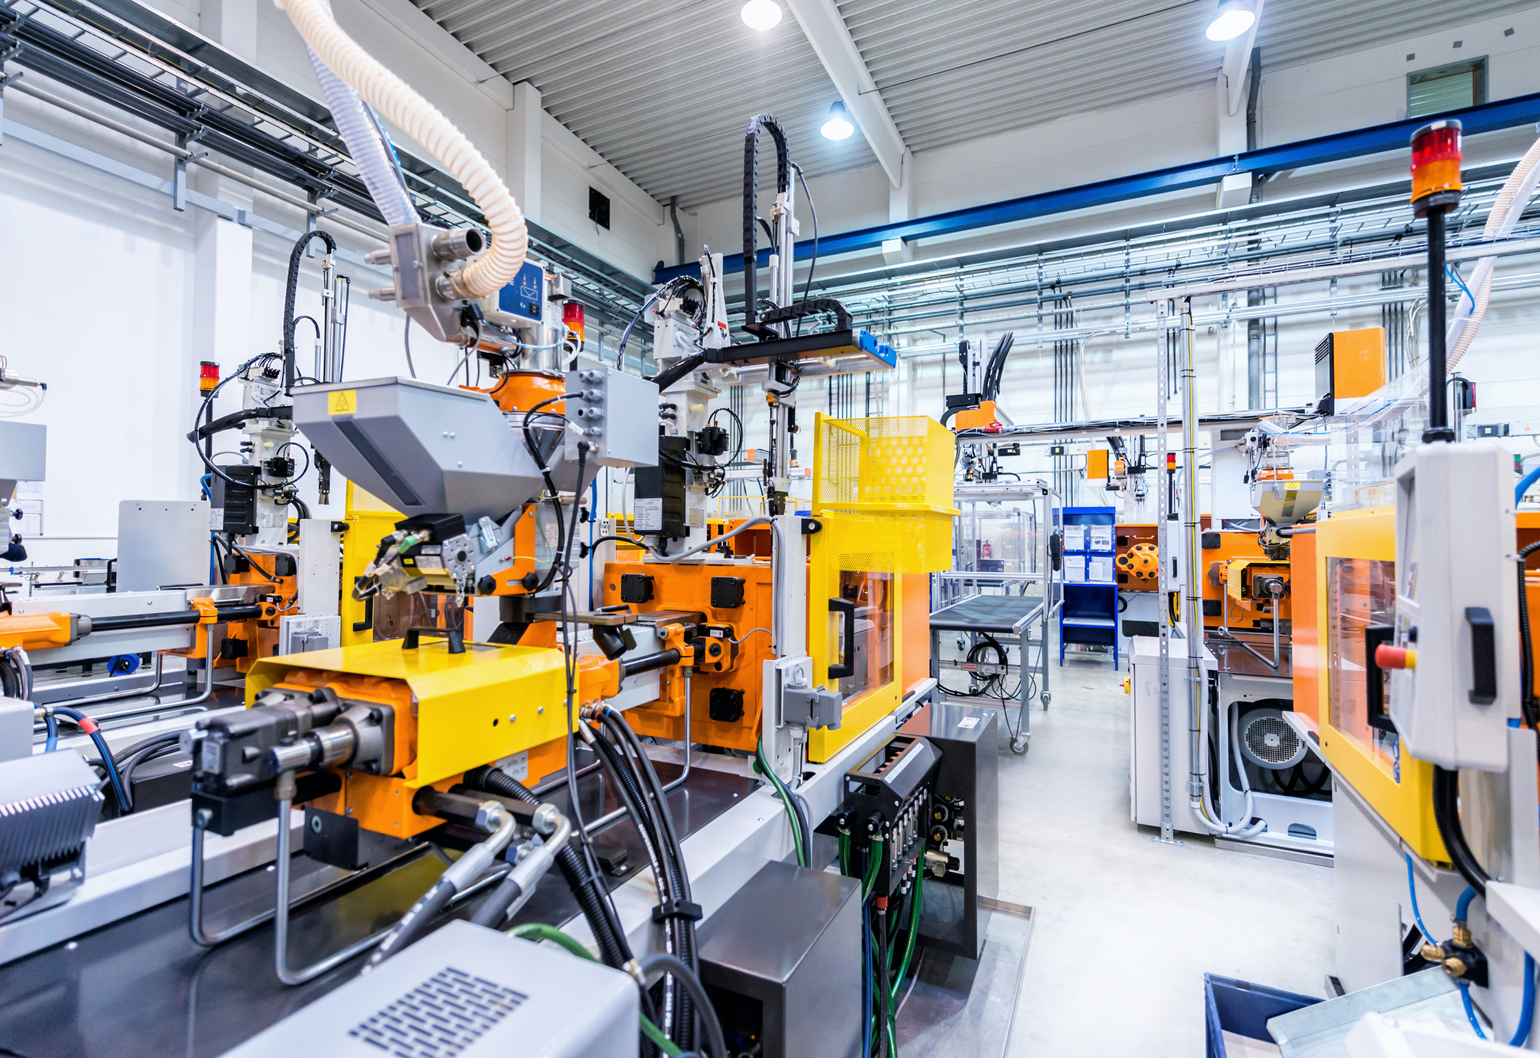
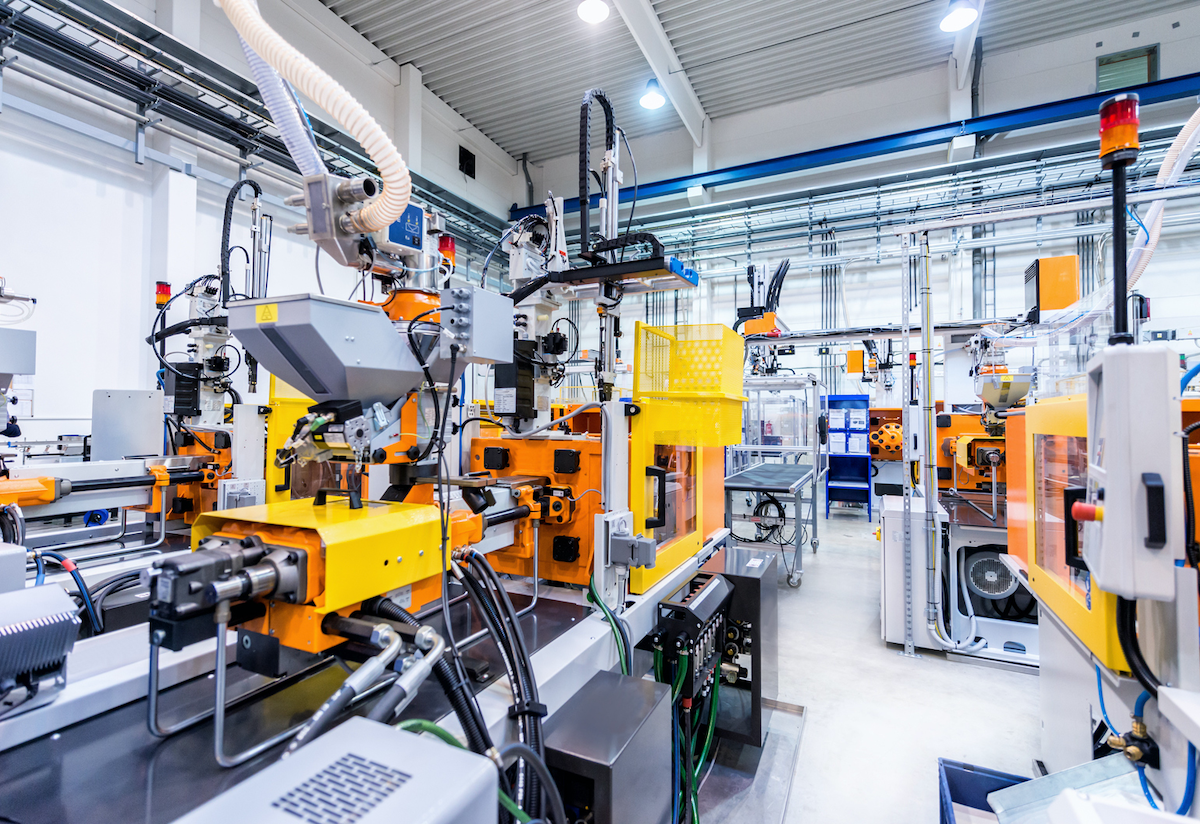
fix: optimise images

diff --git a/README.md b/README.md
@@ -1,15 +1,6 @@
-# 📦 Gulp Boilerplate
+# Imperial Material Website
 
-Minimal Gulp 4 boilerplate with Babel, Sass, ESLint, Live Reload, and development/production optimization.
-
-[![License: MIT](https://img.shields.io/badge/License-MIT-blue.svg)](https://opensource.org/licenses/MIT)
-
-## Installation
-
-```
-git clone git@github.com:renansigolo/gulp-boilerplate.git
-npm i
-```
+Landing page for the app **Imperial Material**
 
 ## Usage
 
@@ -22,20 +13,8 @@ npm start
 ### Production build
 
 ```bash
-npm run build
+npm run build:prod
 ```
-
-## Features
-
-- [Gulp](https://gulpjs.com/)
-- [Babel](https://babeljs.io/)
-- [Prettier](https://prettier.io/)
-- [Sass](https://sass-lang.com/)
-- [PostCSS](https://postcss.org/)
-- [ESLint](https://eslint.org/)
-- [Normalize.css](https://necolas.github.io/normalize.css/)
-- [Skeleton](http://getskeleton.com/)
-- [Standard Version](https://github.com/conventional-changelog/standard-version)
 
 ## Dependencies
 
@@ -68,19 +47,6 @@ npm run build
 - [`gulp-sourcemaps`](https://github.com/gulp-sourcemaps/gulp-sourcemaps) - Sourcemap support for gulpjs.
 - [`gulp-uglify`](https://github.com/terinjokes/gulp-uglify) - Minify files with UglifyJS
 
-## Bonus
-
-- Generate your `site.manifest` file at [Web App Manifest Generator](https://app-manifest.firebaseapp.com/)
-- Generate your `favicons` at [RealFaviconGenerator](https://realfavicongenerator.net/)
-
 ## Author
 
 - [Renan Sigolo](https://www.renansigolo.com/)
-
-## Acknowledgement
-
-- A huge thanks to [Tania Rascia](https://www.taniarascia.com) 👍🏻
-
-## License
-
-This project is open source and available under the [MIT License](LICENSE).
